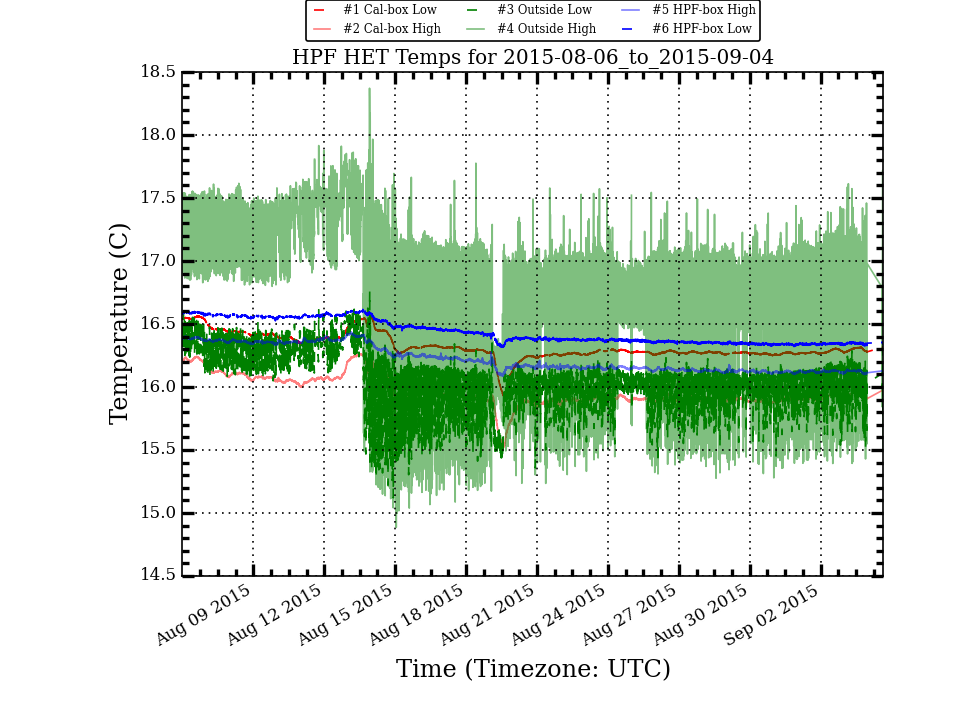
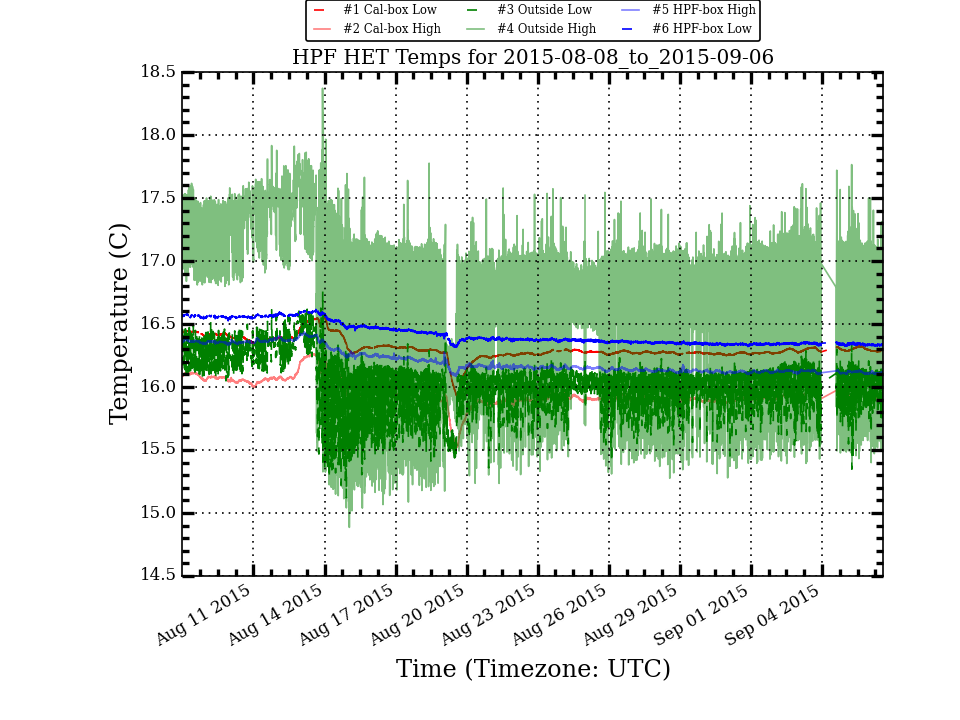
Update HPF Temp Plots

diff --git a/research/hpf_temps/plots/LakeShoreLogTotal_month_stats.html b/research/hpf_temps/plots/LakeShoreLogTotal_month_stats.html
@@ -10,54 +10,54 @@
  </TR>
  <TR>
   <TD>Cal_Low</TD>
-  <TD>16.321</TD>
-  <TD>0.097</TD>
-  <TD>16.288</TD>
-  <TD>16.561</TD>
+  <TD>16.307</TD>
+  <TD>0.083</TD>
+  <TD>16.286</TD>
+  <TD>16.552</TD>
   <TD>15.928</TD>
-  <TD>0.633</TD>
+  <TD>0.624</TD>
  </TR>
  <TR>
   <TD>Cal_High</TD>
-  <TD>15.965</TD>
-  <TD>0.115</TD>
-  <TD>15.922</TD>
+  <TD>15.950</TD>
+  <TD>0.101</TD>
+  <TD>15.920</TD>
   <TD>16.263</TD>
   <TD>15.524</TD>
   <TD>0.739</TD>
  </TR>
  <TR>
   <TD>Out_Low</TD>
-  <TD>16.081</TD>
-  <TD>0.197</TD>
-  <TD>16.072</TD>
+  <TD>16.060</TD>
+  <TD>0.185</TD>
+  <TD>16.059</TD>
   <TD>16.762</TD>
   <TD>15.121</TD>
   <TD>1.641</TD>
  </TR>
  <TR>
   <TD>Out_High</TD>
-  <TD>16.767</TD>
-  <TD>0.521</TD>
-  <TD>16.883</TD>
+  <TD>16.728</TD>
+  <TD>0.523</TD>
+  <TD>16.849</TD>
   <TD>18.371</TD>
   <TD>14.886</TD>
   <TD>3.485</TD>
  </TR>
  <TR>
   <TD>HPF_High</TD>
-  <TD>16.221</TD>
-  <TD>0.103</TD>
-  <TD>16.164</TD>
+  <TD>16.203</TD>
+  <TD>0.097</TD>
+  <TD>16.156</TD>
   <TD>16.434</TD>
   <TD>16.086</TD>
   <TD>0.348</TD>
  </TR>
  <TR>
   <TD>HPF_Low</TD>
-  <TD>16.435</TD>
-  <TD>0.094</TD>
-  <TD>16.382</TD>
+  <TD>16.419</TD>
+  <TD>0.089</TD>
+  <TD>16.375</TD>
   <TD>16.616</TD>
   <TD>16.315</TD>
   <TD>0.301</TD>
